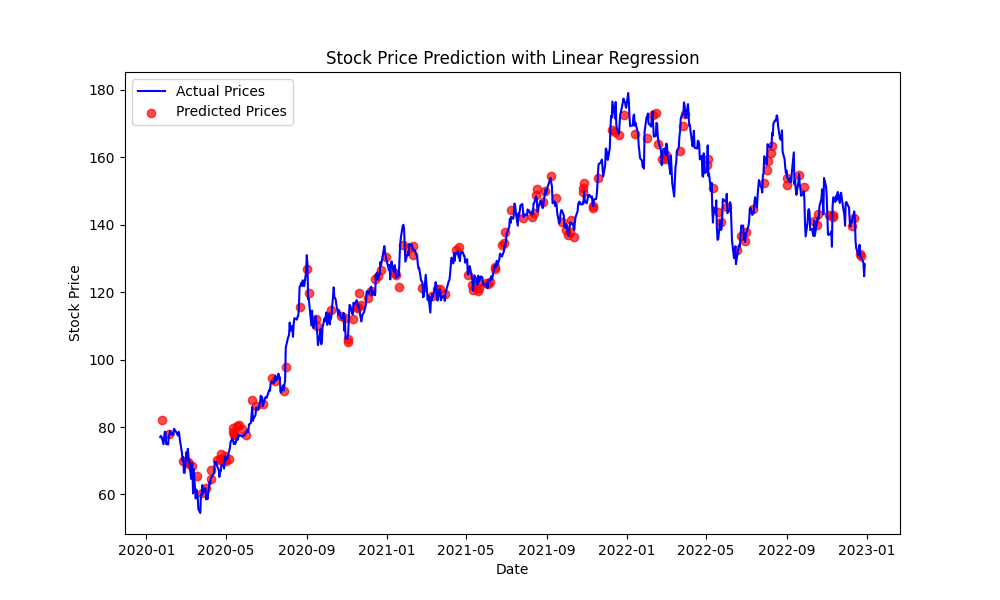
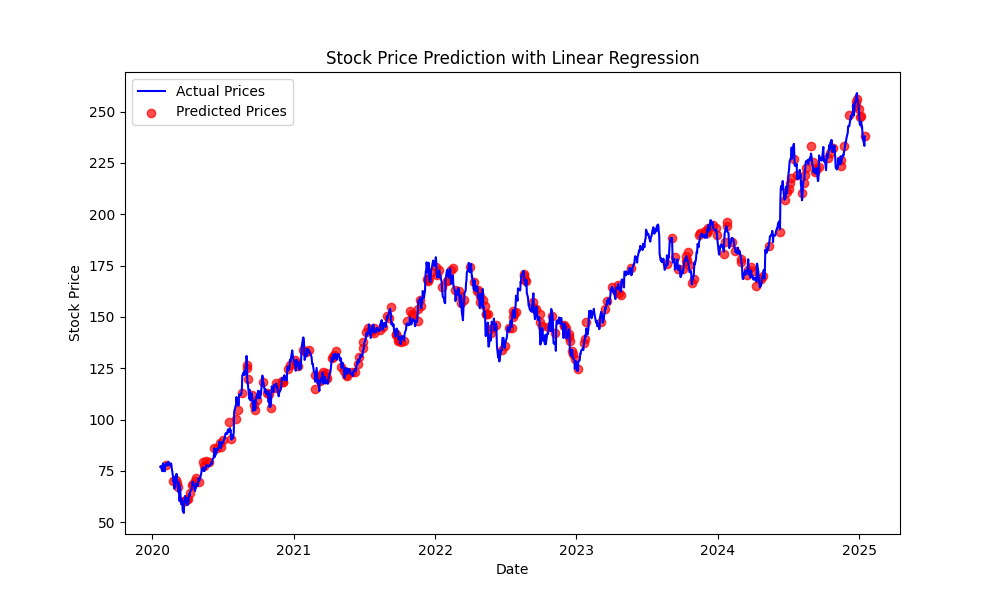
Added randomness and volatility to future stock price prediction

diff --git a/StockPricePredictor.py b/StockPricePredictor.py
@@ -1,3 +1,26 @@
+# =============================================================================
+# Stock Price Prediction Script with Linear Regression and Technical Indicators
+# =============================================================================
+# This script fetches historical stock data, processes it using Exponential Moving Average (EMA)
+# and Relative Strength Index (RSI) indicators, then applies linear regression to predict 
+# the next day's stock price. The model performance is evaluated using metrics like 
+# Mean Squared Error (MSE), Root Mean Squared Error (RMSE), and R² score. It also visualizes 
+# the predicted and actual stock prices on a plot and generates a condensed financial summary 
+# of the stock performance over the specified period.
+#
+# The script includes the following steps:
+# 1. Fetching historical stock data using Yahoo Finance API.
+# 2. Data preparation by calculating EMA and RSI, and shifting closing prices to predict the next day's price.
+# 3. Training a linear regression model with the prepared data.
+# 4. Evaluating the model's predictions and performance using MSE, RMSE, and R² score.
+# 5. Plotting the actual and predicted prices over time.
+# 6. Generating a financial summary including stock price change, model performance, and interpretation.
+#
+# The script can be customized by adjusting the stock ticker, date range, and other model parameters.
+# The results include a plot of stock prices and an output summary detailing the model's accuracy and 
+# the stock's performance over the selected period.
+# =============================================================================
+
 import yfinance as yf
 import pandas as pd
 import numpy as np
@@ -16,10 +39,8 @@ def fetch_stock_data(ticker, start_date, end_date):
 
 # Step 2: Prepare Data for Linear Regression with EMA and RSI
 def prepare_data(data, window_size, rsi_window=14):
-    # Use Exponential Moving Average (EMA) instead of SMA
     data['EMA'] = data['Close'].ewm(span=window_size, adjust=False).mean()
     
-    # Calculate RSI (Relative Strength Index)
     delta = data['Close'].diff()
     gain = (delta.where(delta > 0, 0)).fillna(0)
     loss = (-delta.where(delta < 0, 0)).fillna(0)
@@ -30,19 +51,13 @@ def prepare_data(data, window_size, rsi_window=14):
     rs = avg_gain / avg_loss
     data['RSI'] = 100 - (100 / (1 + rs))
     
-    # Shift the 'Close' price to predict the next day's price
     data['Future_Close'] = data['Close'].shift(-1)
-    
-    # Drop NaN values (due to shift operation)
     data.dropna(inplace=True)
     
-    # Feature: EMA and RSI
-    # Target: Closing Price shifted by 1 day (leading indicator)
     X = data[['EMA', 'RSI']]
     y = data['Future_Close']
     
     return X, y
-
 
 # Step 3: Train-Test Split
 def split_data(X, y):
@@ -70,43 +85,33 @@ def plot_results(data, predictions, X_test):
     plt.title("Stock Price Prediction with Linear Regression")
     plt.legend()
     
-
-    script_directory = os.path.dirname(os.path.realpath(__file__))  # Get the script's folder
-    save_path = os.path.join(script_directory, "stock_price_prediction_chart.png")  # Full path for saving
-    plt.savefig(save_path)  # Save the plot
+    script_directory = os.path.dirname(os.path.realpath(__file__))
+    save_path = os.path.join(script_directory, "stock_price_prediction_chart.png")
+    plt.savefig(save_path)
     
-    print(f"Chart saved at: {save_path}")  # Confirm where the chart was saved
+    print(f"Chart saved at: {save_path}")
     
-    # Close the plot
-    plt.close()  # Close the plot immediately after saving it
-    plt.clf()  # Clear the current figure
+    plt.close()
+    plt.clf()
 
-
-# Add detailed analysis of stock price performance and model
 def add_analysis(data, predictions, y_test, stock_name, start_date, end_date):
-    """Add basic analysis metrics to the stock prediction output"""
-    
-    # Calculate basic metrics
     mse = mean_squared_error(y_test, predictions)
     rmse = np.sqrt(mse)
     r2 = r2_score(y_test, predictions)
     
-    # Fix FutureWarning and ensure start_price and end_price are scalars
-    start_price = data['Close'].iloc[0].item()  # .item() ensures it's a scalar value
-    end_price = data['Close'].iloc[-1].item()  # .item() ensures it's a scalar value
+    start_price = data['Close'].iloc[0].item()
+    end_price = data['Close'].iloc[-1].item()
     price_change = end_price - start_price
     price_change_pct = (price_change / start_price) * 100
     
-    # Calculate max and min prices explicitly as scalars
-    max_price = data['Close'].max().item()  # .item() ensures it's a scalar value
-    min_price = data['Close'].min().item()  # .item() ensures it's a scalar value
+    max_price = data['Close'].max().item()
+    min_price = data['Close'].min().item()
     
-    # Print analysis
     print("\n=== Stock Price Analysis ===")
     print(f"Time Period: {start_date} to {end_date}")
     print("\nPrice Summary:")
-    print(f"Starting Price: ${start_price:.2f}")  # Corrected format
-    print(f"Ending Price: ${end_price:.2f}")  # Corrected format
+    print(f"Starting Price: ${start_price:.2f}")
+    print(f"Ending Price: ${end_price:.2f}")
     print(f"Total Change: ${price_change:.2f} ({price_change_pct:.1f}%)")
     print(f"Highest Price: ${max_price:.2f}")
     print(f"Lowest Price: ${min_price:.2f}")
@@ -126,13 +131,9 @@ def add_analysis(data, predictions, y_test, stock_name, start_date, end_date):
     else:
         print("• Model accuracy is good")
     
-    # Call the summary function and pass the additional parameters
     generate_financial_summary(start_price, end_price, price_change, price_change_pct, max_price, min_price, mse, rmse, r2, stock_name, start_date, end_date)
 
 def generate_financial_summary(start_price, end_price, price_change, price_change_pct, max_price, min_price, mse, rmse, r2, stock_name, start_date, end_date):
-    """Generate the condensed financial summary as a paragraph"""
-    
-    # Calculate the number of days in the period
     start_date_obj = pd.to_datetime(start_date)
     end_date_obj = pd.to_datetime(end_date)
     num_days = (end_date_obj - start_date_obj).days
@@ -144,29 +145,49 @@ def generate_financial_summary(start_price, end_price, price_change, price_chang
         "This model is best for short-term predictions based on recent trends, but may be less reliable during sudden price swings."
     )
     
-    # Print the condensed financial summary
     print("\n=== Condensed Financial Summary ===")
     print(summary)
     
     return summary
+
+def predict_future_prices_with_trend(model, data, X_latest, days=60, trend_type="linear"):
+    """Predict the next 'days' future stock prices with trend adjustment and volatility."""
+    future_predictions = []
+    X_current = X_latest.copy()
+
+    # Start by predicting the next day's price
+    next_prediction = model.predict([X_current.iloc[-1]])[0]
+    future_predictions.append(next_prediction)
+
+    # Calculate the trend from the original 'data' which includes the 'Close' prices
+    price_changes = data['Close'].diff().dropna()  # Calculate daily price changes
+    average_change = price_changes.mean()  # Use average change as a trend reference
+    volatility = price_changes.std()  # Calculate standard deviation for volatility
+
+    # Predict future prices considering the trend and volatility
+    for _ in range(days - 1):
+        # Add randomness based on volatility (simulating price fluctuations)
+        random_noise = np.random.normal(0, volatility)  # Simulate random price fluctuations
+        next_prediction = future_predictions[-1] + average_change + random_noise
+        future_predictions.append(next_prediction)
+
+    return future_predictions
+
+
 # Main Function
 if __name__ == "__main__":
-    # Parameters
     TICKER = "AAPL"  # Replace with your desired stock symbol
     START_DATE = "2020-01-01"
-    END_DATE = "2023-01-01"
+    END_DATE = (pd.to_datetime("today") - pd.tseries.offsets.BDay(1)).strftime('%Y-%m-%d')  # Current date minus 1 business day
     WINDOW_SIZE = 20  # EMA window size
     
-    # Fetch and prepare data
     data = fetch_stock_data(TICKER, START_DATE, END_DATE)
     X, y = prepare_data(data, WINDOW_SIZE)
     X_train, X_test, y_train, y_test = split_data(X, y)
     
-    # Train and evaluate the model
     model = train_model(X_train, y_train)
     predictions, mse = predict_and_evaluate(model, X_test, y_test)
     
-    # Print quick analysis
     print(f"\nQuick Analysis:")
     print(f"Mean Squared Error: {mse:.2f}")
     print(f"Average prediction error: ±${np.sqrt(mse):.2f}")
@@ -174,8 +195,12 @@ if __name__ == "__main__":
     print(f"Best for: Shorter-term predictions with recent trends")
     print(f"Less reliable for: Sudden, large price swings")
     
-    # Add detailed analysis
     add_analysis(data, predictions, y_test, TICKER, START_DATE, END_DATE)
     
-    # Plot results
     plot_results(data, predictions, X_test)
+    
+    # Predict future prices for the next 60 days
+    future_prices_with_trend = predict_future_prices_with_trend(model, data, X_test, days=60)
+
+    for i, price in enumerate(future_prices_with_trend, 1):
+        print(f"Day {i}: ${float(price):.2f}")
